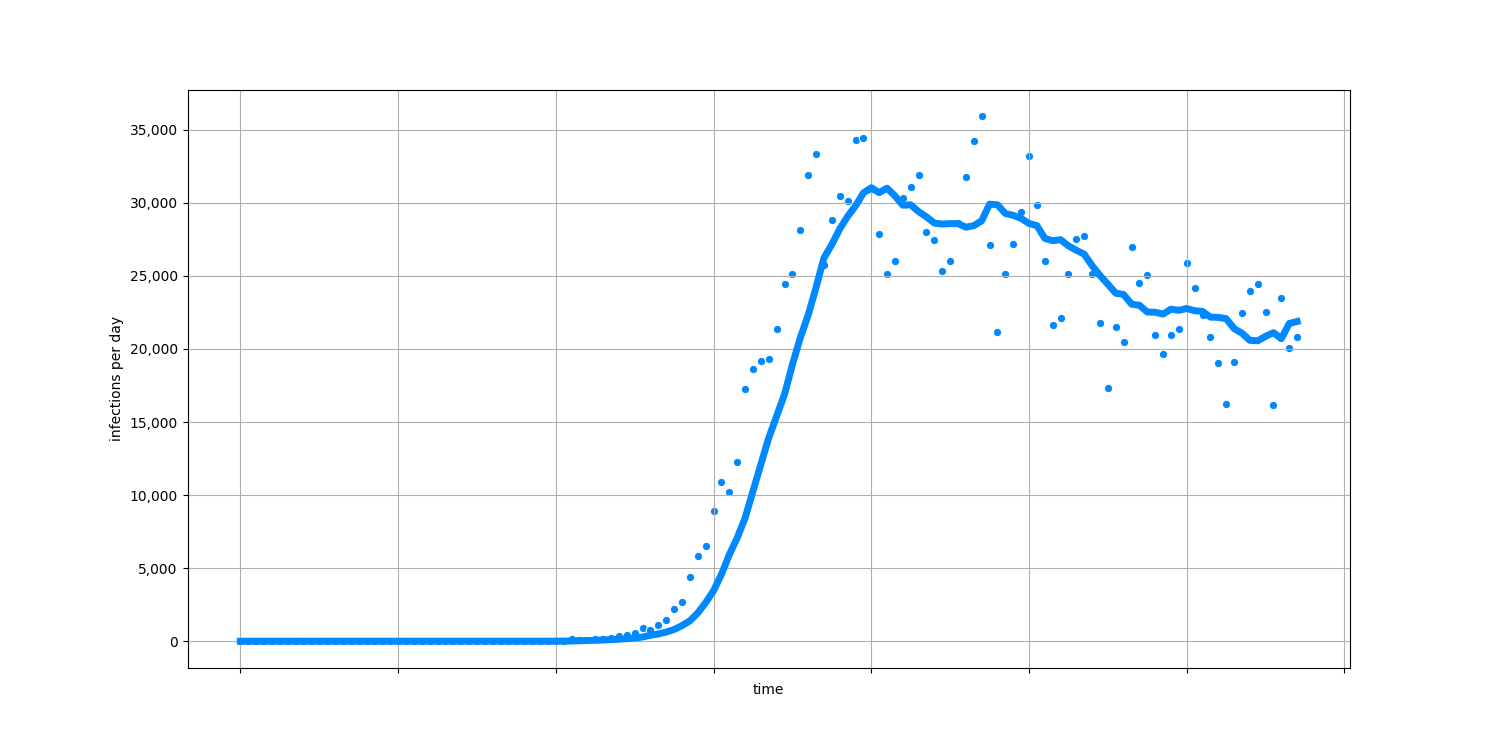
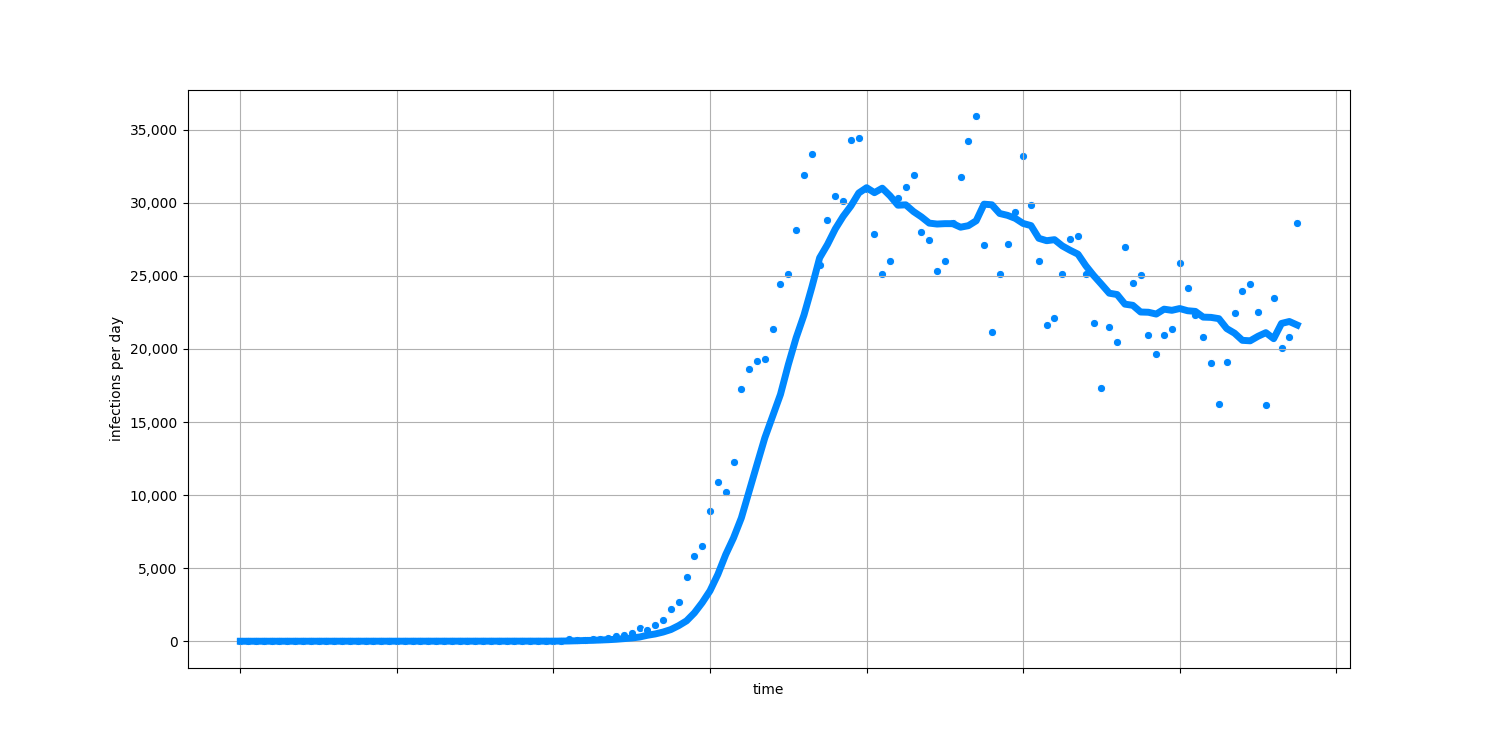
regular update

diff --git a/docs/index.html b/docs/index.html
@@ -72,18 +72,18 @@
       </div>
         <div class="grid-col-9">
           <h1 class="font-body-2xl">
-            The United States has had about 102,101 COVID-19 deaths and
-            1,864,112 confirmed cases.
+            The United States has had about 103,201 COVID-19 deaths and
+            1,892,727 confirmed cases.
             <small>
               That's about <strong>6 out of every
               1,000</strong> people who we know are or have
-              been infected. About <strong>5.48%</strong>
+              been infected. About <strong>5.45%</strong>
               of people who have tested positive have died.
             </small>
           </h1>
 
           <p class="font-body-md">
-            There are about <strong>834</strong> new
+            There are about <strong>920</strong> new
             deaths every day. At this rate, about
             <strong>110,000</strong> total people
             will have died of COVID-19 in 7 days. This chart shows the number of
@@ -94,7 +94,7 @@
           </p>
 
           <p class="font-body-md">
-            There are about <strong>20,617</strong> new
+            There are about <strong>21,831</strong> new
             cases identified every day. At the current rate, the total number of
             confirmed cases will be about <strong>
             2,000,000</strong> in 7 days. This chart
